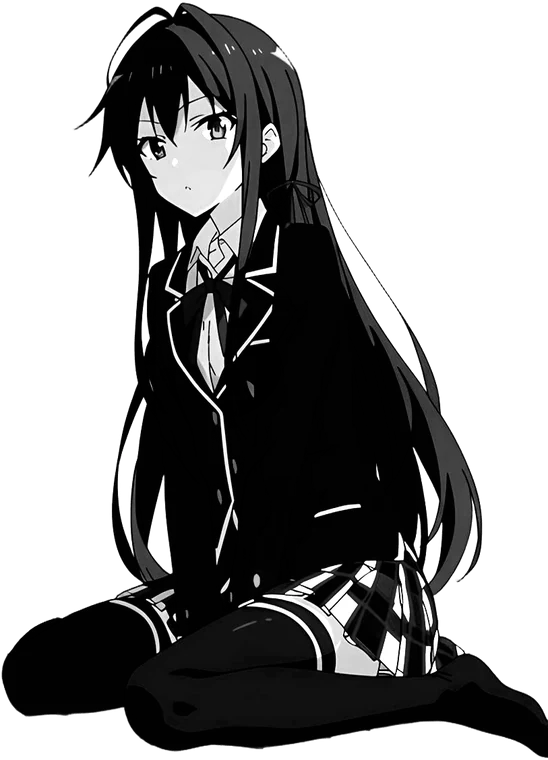
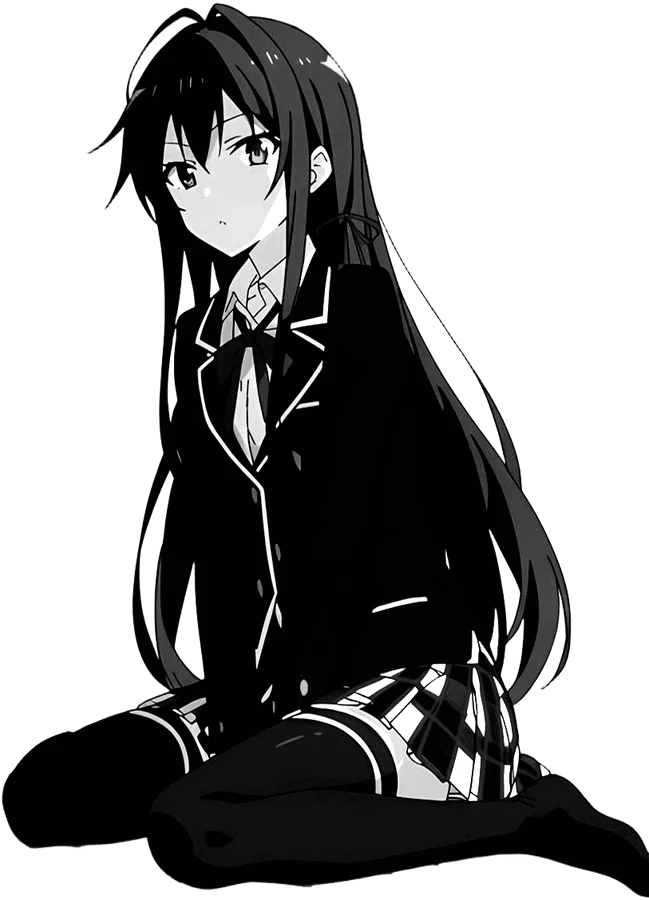
Languages: German picture

diff --git a/l/app.js b/l/app.js
@@ -112,7 +112,7 @@ function revBtn(){
 }
 
 /* ---------- illustration ---------- */
-const GIRL = {zh: '/l/img/girl_zh.webp', de: '/l/img/girl_zh.webp', ja: '/l/img/girl_ja.webp'};
+const GIRL = {zh: '/l/img/girl_zh.webp', de: '/l/img/girl_de2.webp', ja: '/l/img/girl_ja.webp'};
 const peek = () => { const k = GIRL[S.lang] ? S.lang : 'zh'; return `<div class="peek ${k}" aria-hidden="true"><div class="pk"><img src="${GIRL[k]}" alt=""></div></div>`; };
 function reveal(pk, img){ let done = false; const go = () => { if (done) return; done = true; requestAnimationFrame(() => pk.classList.add('up')); setTimeout(() => pk.classList.add('up'), 60); };
   setTimeout(go, 300); img?.decode?.().then(go).catch(go); }

diff --git a/l/german/index.html b/l/german/index.html
@@ -28,6 +28,6 @@
 <aside class="card fly" id="fly" aria-live="polite"></aside>
 <svg width="0" height="0" style="position:absolute" aria-hidden="true"><defs id="sprite"></defs></svg>
 <script src="https://cdn.jsdelivr.net/npm/hanzi-writer@3.5.0/dist/hanzi-writer.min.js"></script>
-<script src="/l/app.js?v=cb3746c4"></script>
+<script src="/l/app.js?v=0568c880"></script>
 </body>
 </html>

diff --git a/l/japanese/index.html b/l/japanese/index.html
@@ -28,6 +28,6 @@
 <aside class="card fly" id="fly" aria-live="polite"></aside>
 <svg width="0" height="0" style="position:absolute" aria-hidden="true"><defs id="sprite"></defs></svg>
 <script src="https://cdn.jsdelivr.net/npm/hanzi-writer@3.5.0/dist/hanzi-writer.min.js"></script>
-<script src="/l/app.js?v=cb3746c4"></script>
+<script src="/l/app.js?v=0568c880"></script>
 </body>
 </html>

diff --git a/l/mandarin/index.html b/l/mandarin/index.html
@@ -28,6 +28,6 @@
 <aside class="card fly" id="fly" aria-live="polite"></aside>
 <svg width="0" height="0" style="position:absolute" aria-hidden="true"><defs id="sprite"></defs></svg>
 <script src="https://cdn.jsdelivr.net/npm/hanzi-writer@3.5.0/dist/hanzi-writer.min.js"></script>
-<script src="/l/app.js?v=cb3746c4"></script>
+<script src="/l/app.js?v=0568c880"></script>
 </body>
 </html>
